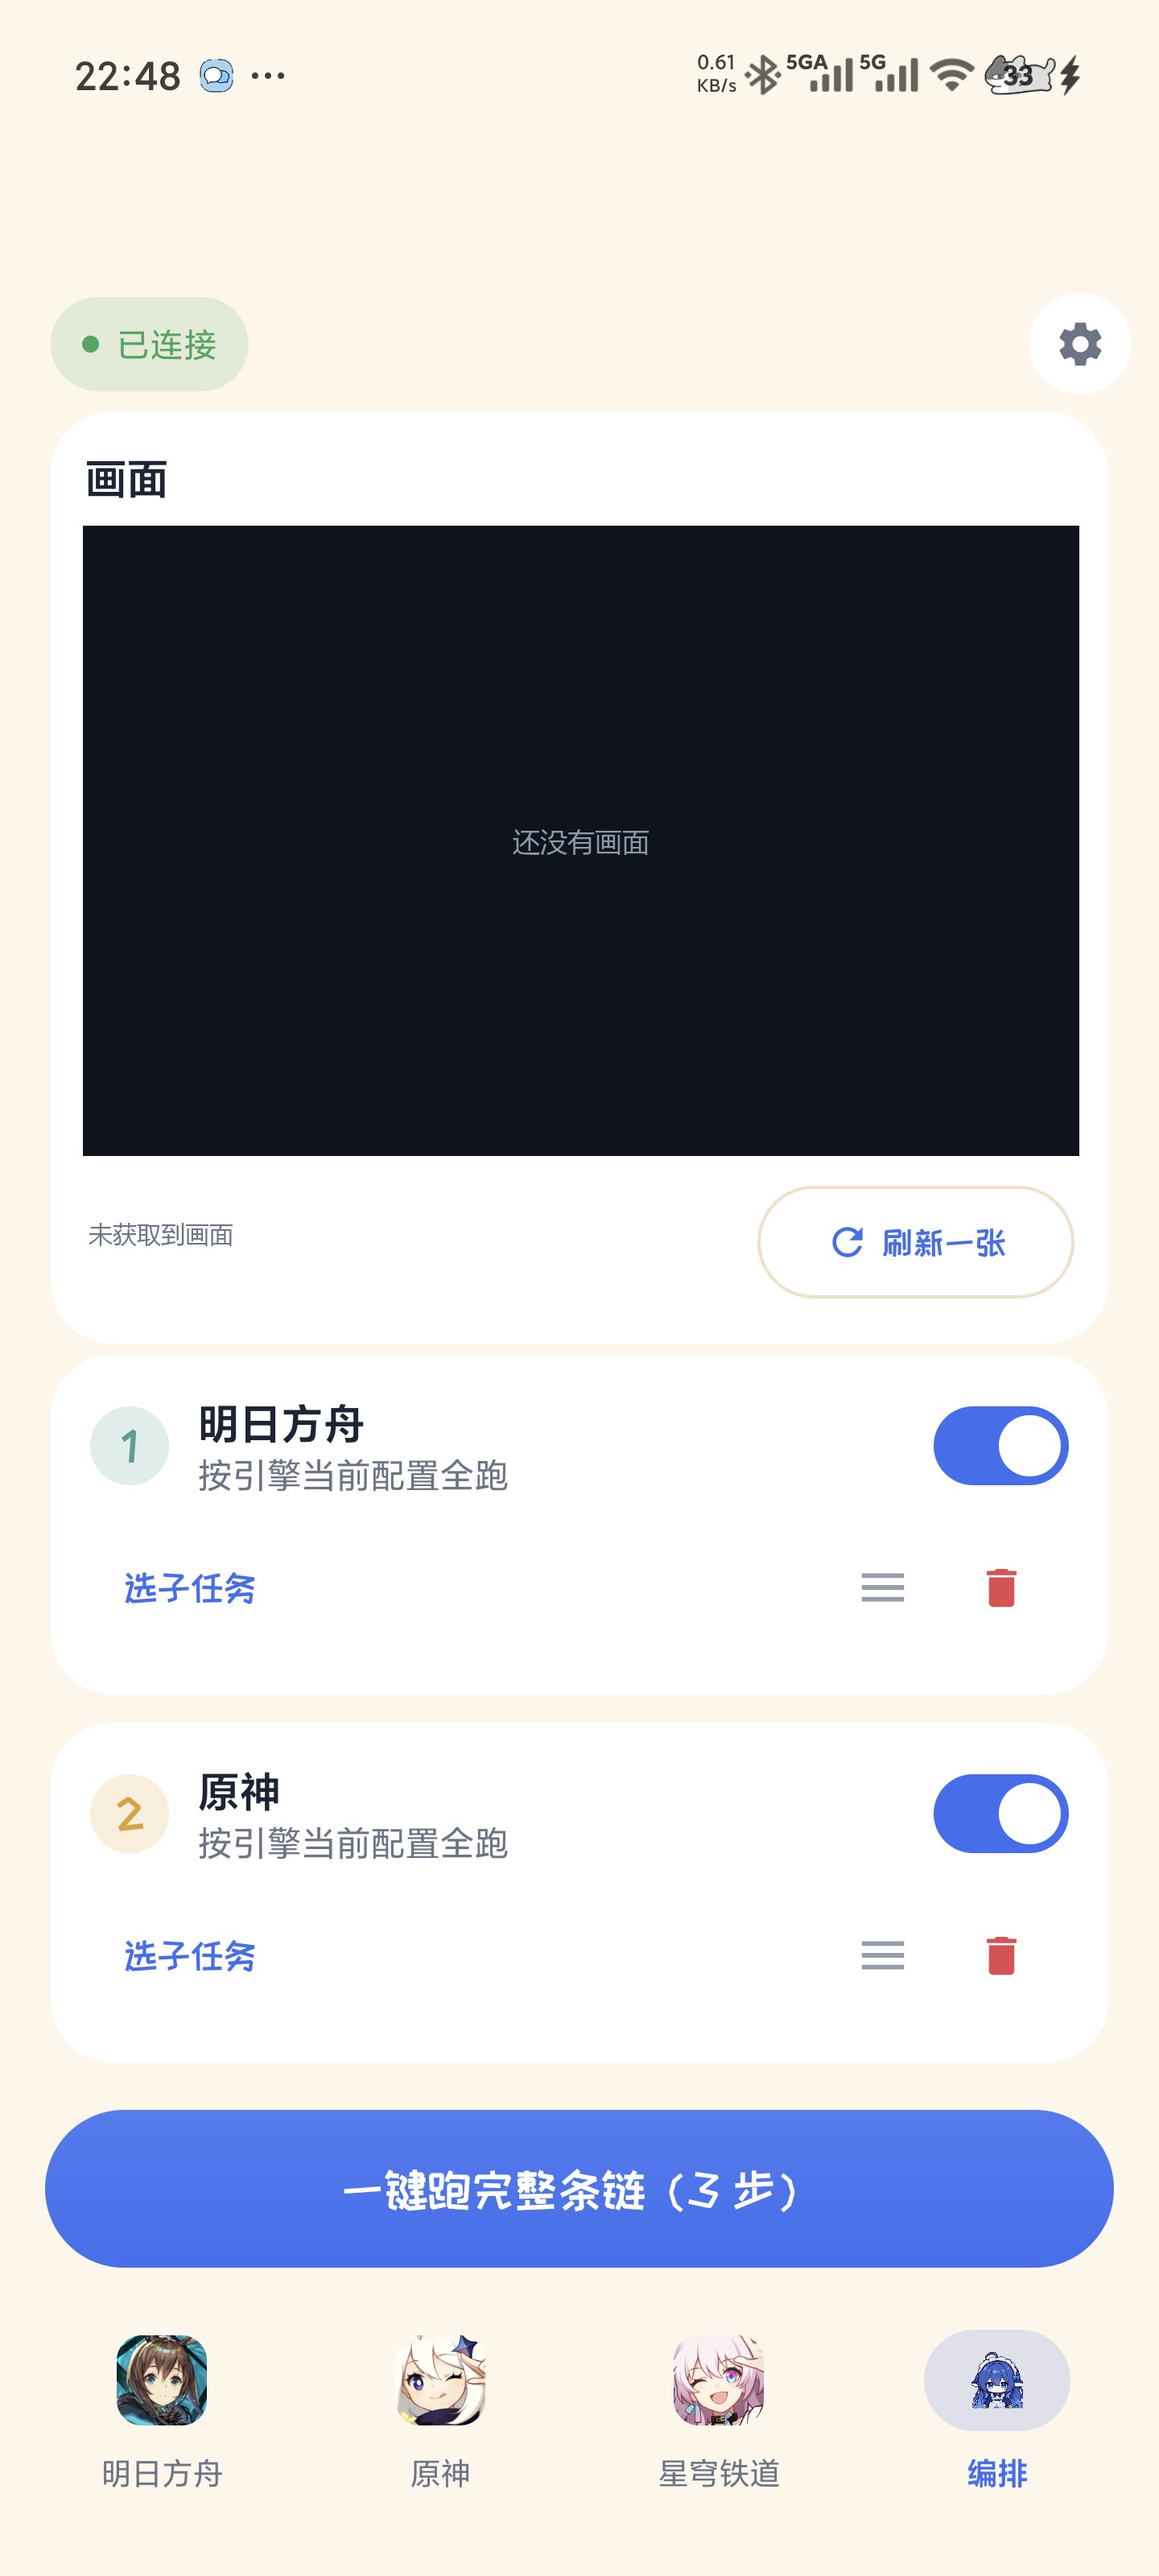
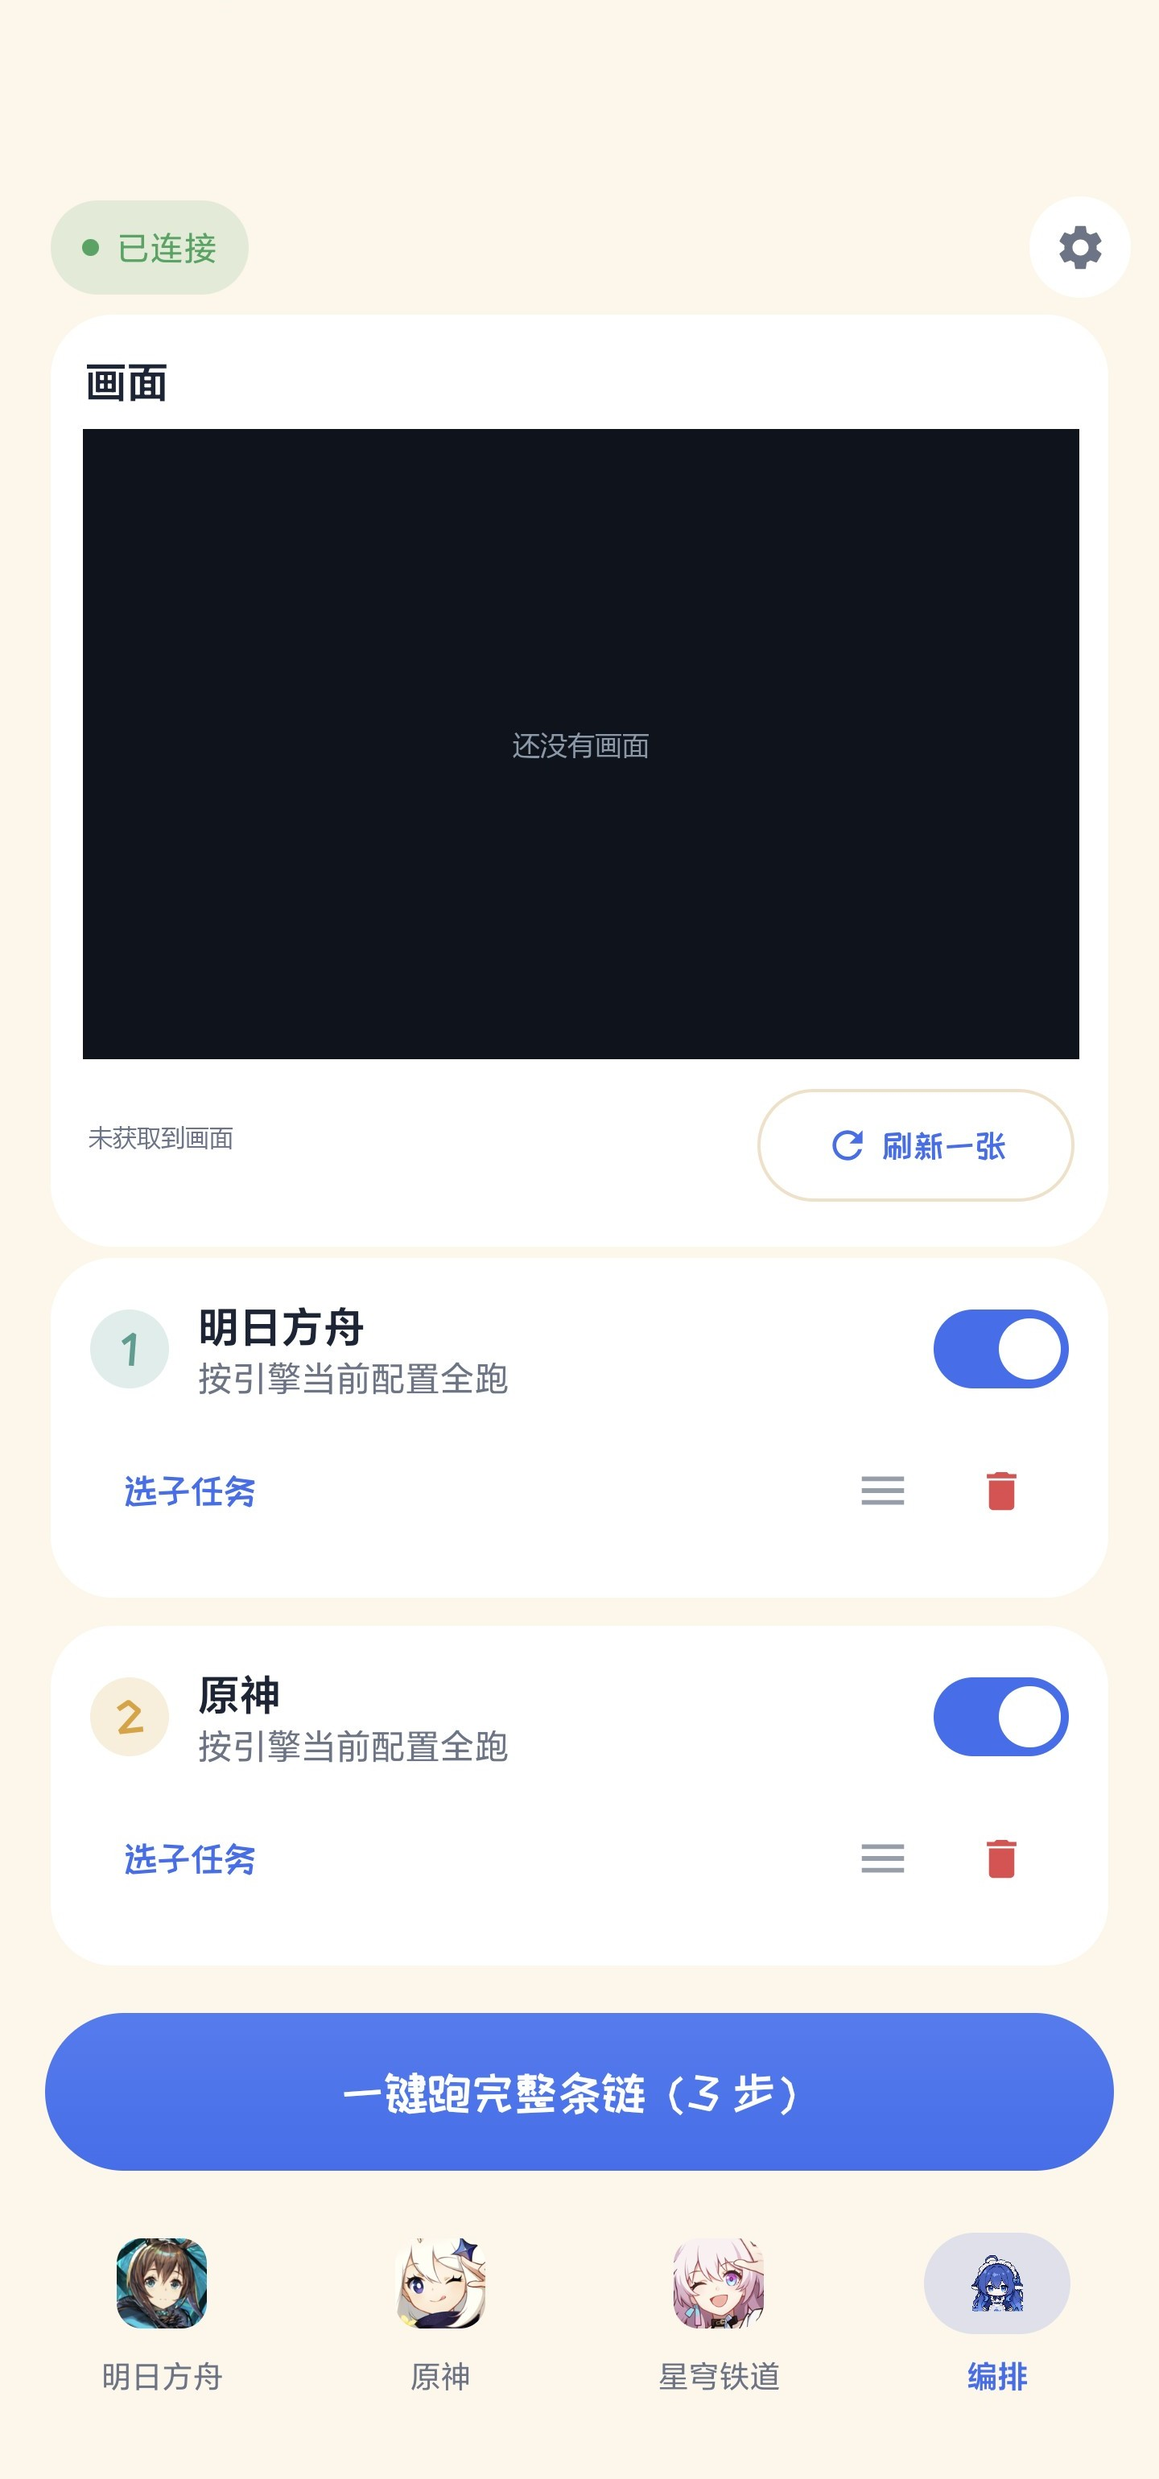
README：改成单张界面展示图
五张截图平铺太碎，换成一张电脑端 + 手机端的合成展示图（统一底色与投影）；
手机截图裁掉系统状态栏，带遮罩的选择器图不再用于 README。

diff --git a/README.md b/README.md
@@ -11,18 +11,11 @@
 
 本程序只是「胶水」：真正干活的是上面三个成熟的开源工具，本仓库不包含它们的代码与素材。
 
-<p>
-  <img src="docs/screenshots/desktop-overview.png" width="400" alt="电脑端总览" />
-  <img src="docs/screenshots/desktop-deps.png" width="400" alt="电脑端依赖清单" />
+<p align="center">
+  <img src="docs/screenshots/hero.png" width="880" alt="电脑端总览 + 手机端游戏页" />
 </p>
 
-<p>
-  <img src="docs/screenshots/phone-game.jpg" width="220" alt="手机端游戏页" />
-  <img src="docs/screenshots/phone-chain.jpg" width="220" alt="手机端编排页" />
-  <img src="docs/screenshots/phone-timer.jpg" width="220" alt="手机端定时设置" />
-</p>
-
-> 截图中的地址为示例；手机端画面区为空画面状态，避免露出本机内容。
+> 截图为界面演示：地址是示例值，手机端画面区为空画面状态。更多截图在 `docs/screenshots/`。
 
 ## 目录
 
